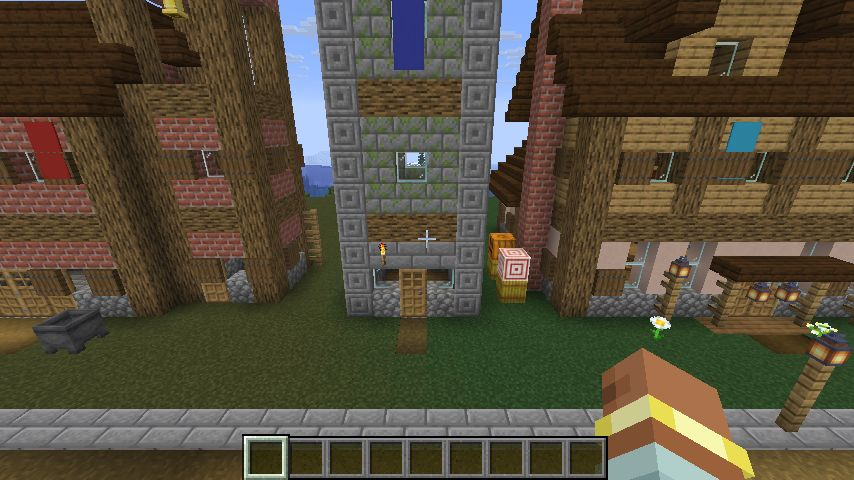
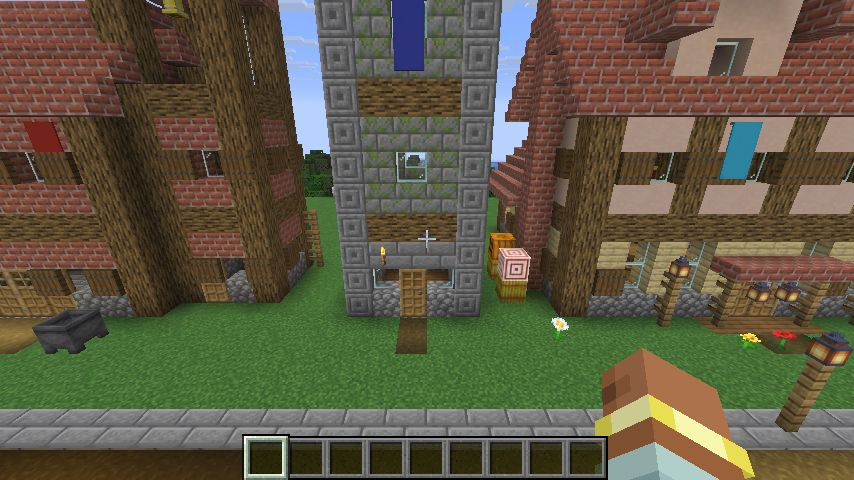
Gallery: Coach House
Claude-Session: https://claude.ai/code/session_01FWydJUKzKi7zFDJb2DjUpZ

diff --git a/docs/gallery/README.md b/docs/gallery/README.md
@@ -32,9 +32,9 @@ The test streets put buildings of all kinds side by side, so neighbours show at 
 
 ![Offices: counting house, guild hall](sheet_5_offices.jpg)
 
-## Services, utilities and landmarks
+## Services, utilities, landmarks and transport
 
-The last three are the Phase 5 landmarks: the Founders' Fountain, the Clock Tower and the Chapel.
+Then the Phase 5 landmarks (the Founders' Fountain, the Clock Tower and the Chapel) and the Phase 6 Coach House.
 
 ![Services, utilities and landmarks](sheet_6_services_and_utilities.jpg)
 
